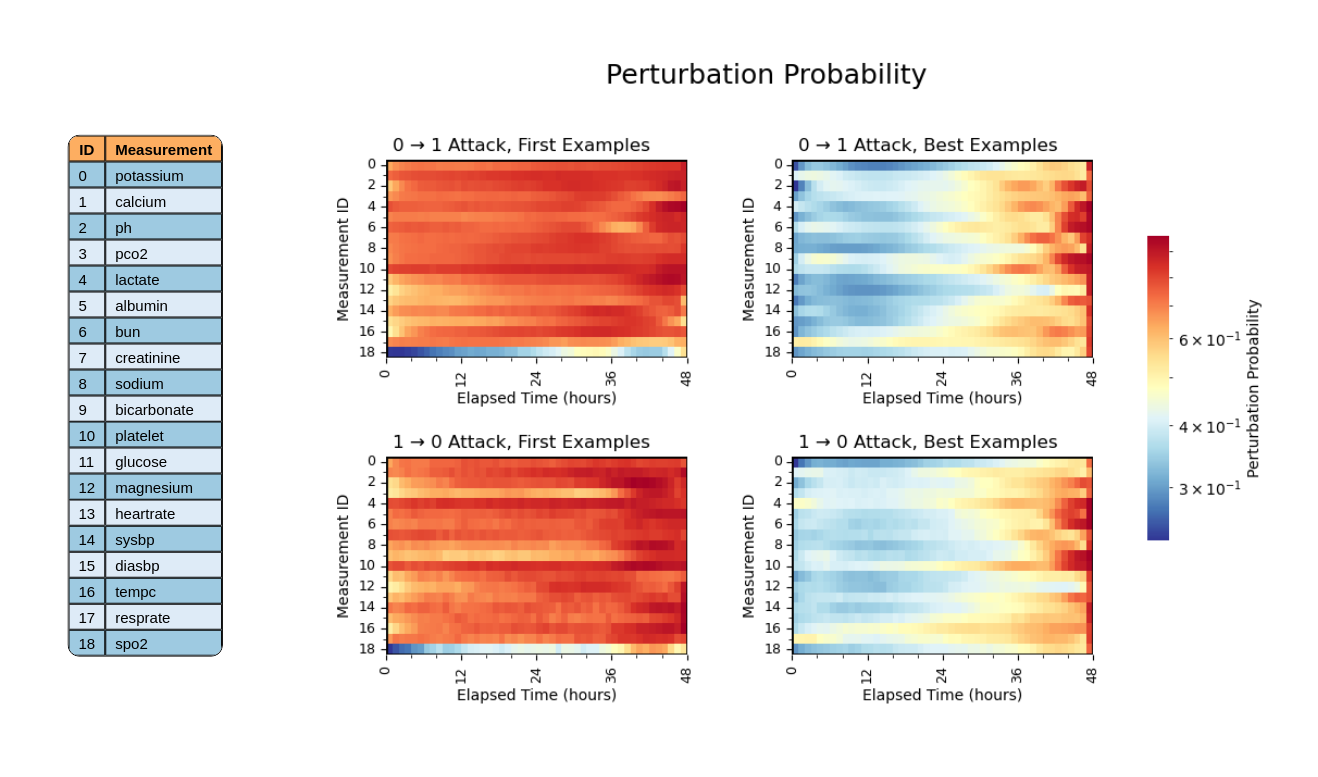
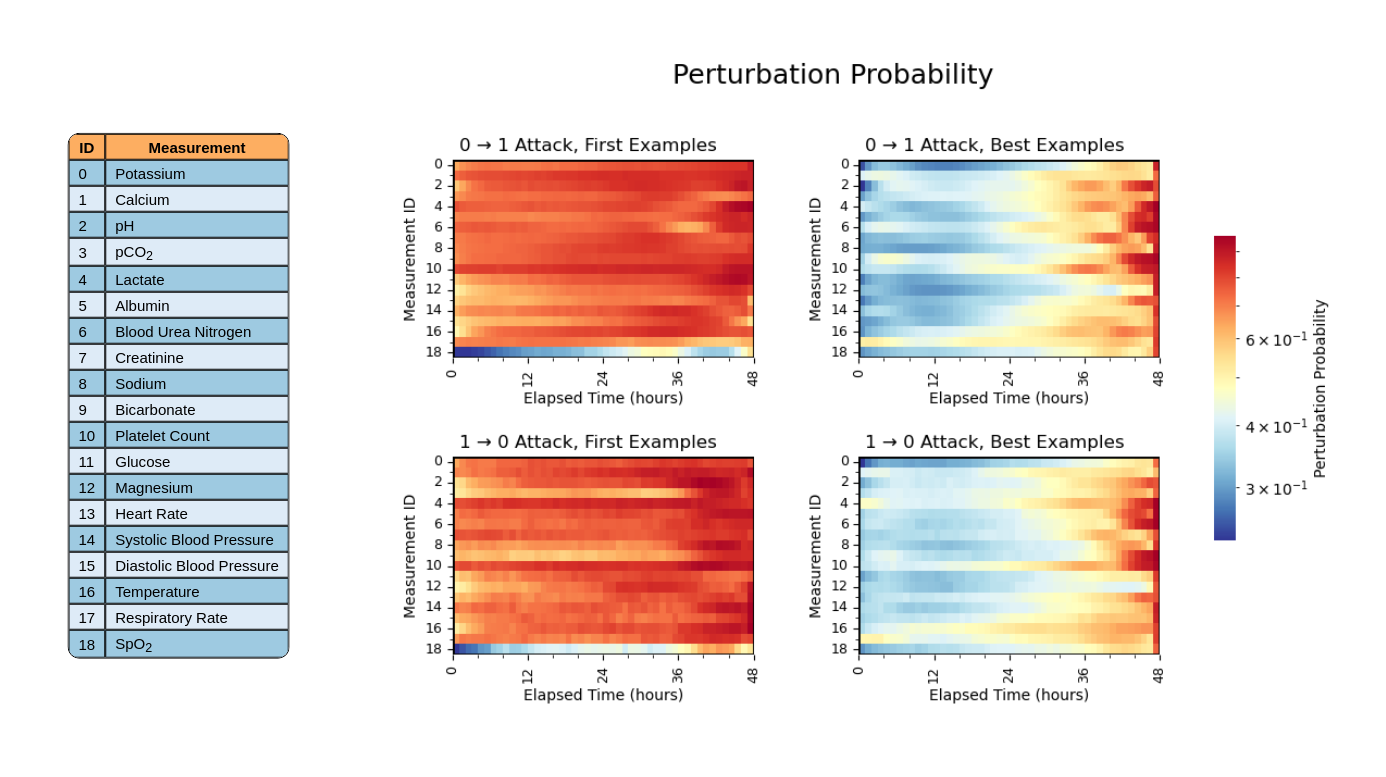
update example data discussion

diff --git a/data/.attack_analyses_old/2023-08-04_23_25_10.936888/styled_measurement_table.html b/data/.attack_analyses_old/2023-08-04_23_25_10.936888/styled_measurement_table.html
@@ -73,25 +73,25 @@
             <th>ID</th>
             <th>Measurement</th>
         </tr>
-        <tr><td>0</td><td>potassium</td></tr>
-        <tr><td>1</td><td>calcium</td></tr>
-        <tr><td>2</td><td>ph</td></tr>
-        <tr><td>3</td><td>pco2</td></tr>
-        <tr><td>4</td><td>lactate</td></tr>
-        <tr><td>5</td><td>albumin</td></tr>
-        <tr><td>6</td><td>bun</td></tr>
-        <tr><td>7</td><td>creatinine</td></tr>
-        <tr><td>8</td><td>sodium</td></tr>
-        <tr><td>9</td><td>bicarbonate</td></tr>
-        <tr><td>10</td><td>platelet</td></tr>
-        <tr><td>11</td><td>glucose</td></tr>
-        <tr><td>12</td><td>magnesium</td></tr>
-        <tr><td>13</td><td>heartrate</td></tr>
-        <tr><td>14</td><td>sysbp</td></tr>
-        <tr><td>15</td><td>diasbp</td></tr>
-        <tr><td>16</td><td>tempc</td></tr>
-        <tr><td>17</td><td>resprate</td></tr>
-        <tr><td>18</td><td>spo2</td></tr>
+        <tr><td>0</td><td>Potassium</td></tr>
+        <tr><td>1</td><td>Calcium</td></tr>
+        <tr><td>2</td><td>pH</td></tr>
+        <tr><td>3</td><td>pCO<sub>2</sub></td></tr>
+        <tr><td>4</td><td>Lactate</td></tr>
+        <tr><td>5</td><td>Albumin</td></tr>
+        <tr><td>6</td><td>Blood Urea Nitrogen</td></tr>
+        <tr><td>7</td><td>Creatinine</td></tr>
+        <tr><td>8</td><td>Sodium</td></tr>
+        <tr><td>9</td><td>Bicarbonate</td></tr>
+        <tr><td>10</td><td>Platelet Count</td></tr>
+        <tr><td>11</td><td>Glucose</td></tr>
+        <tr><td>12</td><td>Magnesium</td></tr>
+        <tr><td>13</td><td>Heart Rate</td></tr>
+        <tr><td>14</td><td>Systolic Blood Pressure</td></tr>
+        <tr><td>15</td><td>Diastolic Blood Pressure</td></tr>
+        <tr><td>16</td><td>Temperature</td></tr>
+        <tr><td>17</td><td>Respiratory Rate</td></tr>
+        <tr><td>18</td><td>SpO<sub>2</sub></td></tr>
     </table>
 
     <!-- Image on the right -->

diff --git a/README.md b/README.md
@@ -4,27 +4,27 @@
 
 This project implements and optimizes **Long Short-Term Memory (LSTM)** time series models of intensive care unit (ICU) patient lab and vital sign data to predict patient outcomes. Additionally, an **adversarial attack** algorithm is used to discover adversarial examples for trained models.  
 
-Raw data were obtained from the **Medical Information Mart for Intensive Care (MIMIC-III) database** [[1](#ref_01), [2](#ref_02)]. The predictive model input consists of data from 13 lab measurements and 6 vital signs*collected during the first 48 hours after patient admission to the ICU. The prediction target is a binary variable representing in-hospital mortality. This type of model can supplement standard heuristics used by care providers in identifying high-risk patients.  
+Raw data were obtained from the **Medical Information Mart for Intensive Care (MIMIC-III) database** [[1](#ref_01), [2](#ref_02)]. The predictive model input consists of data from **13 lab measurements** and **6 vital signs** collected during the first **48 hours** after patient admission to the ICU. The prediction target is a binary variable representing in-hospital mortality. This type of model can supplement standard heuristics used by care providers in identifying high-risk patients.  
 
 The results of adversarial attacks on trained LSTM models provide a gauge of model stability. Additionally, these results offer an opportunity to compare adversarial vulnerabilities in LSTMs with the well-documented [[3](#ref_03), [4](#ref_04)] adversarial behaviors observed in Convolutional Neural Networks (CNNs) used for computer vision. Unlike the adversarial examples found in CNNs — where perturbations imperceptible to the human eye can drastically alter model predictions — the adversarial examples discovered for our LSTM models exhibit a higher degree of plausibility, aligning more closely with human intuition.  
 
-## **Getting Started**  
+## Getting Started  
 
-### **📌 Viewing Documentation**  
+### 📌 Viewing Documentation  
 The full documentation, including detailed descriptions of the methodology and implementation, is contained in the project Jupyter notebook. If using the notebook purely for informational purposes (without running the code), you can:
 - View the [notebook file directly on GitHUb](https://github.com/duanegoodner/icu-deep-learning/blob/main/notebooks/icu_deep_learning.ipynb) directly on GitHUb
 -  Open it in Google Colab for a more interactive reading experience with easier navigation:  
 [![Open in Colab](https://colab.research.google.com/assets/colab-badge.svg)](https://colab.research.google.com/github/duanegoodner/lstm_adversarial_attack/blob/main/notebooks/icu_deep_learning.ipynb)  
 
 
-### **🚀 Running the Project**  
-- To run the project code, follow the instructions in [SETUP.md](SETUP.md) for setting up and running in a containerized environment.  
+### 🚀 Running the Project  
+To run the project code, follow the instructions in [SETUP.md](SETUP.md) for setting up and running in a containerized environment.  
 
-## **Acknowledgement of Prior Studies**  
+## Acknowledgement of Prior Studies  
 
 This project builds on previous studies [[5](#ref_05), [6](#ref_06)] that were the first to apply LSTM-based predictive modeling and adversarial attacks to ICU patient data from the MIMIC-III database. While the initial goal was to reproduce and validate portions of the earlier studies, the project has since evolved into significant extensions and new contributions. However, none of this progress would have been possible without the invaluable foundation provided by the original research.  
 
-## **Highlights**  
+## Highlights  
 
 - **Extensive hyperparameter tuning** for predictive and attack models.  
 - **Flexible attack objectives** allow targeting different types of adversarial perturbations.  
@@ -40,14 +40,23 @@ This project builds on previous studies [[5](#ref_05), [6](#ref_06)] that were t
 
 ## Example Data: Input Elements' Perturbation Probability 
 
-When 
+Each model input consists of a **19 × 48** array representing **hourly** values of **13 lab measurements** and **6 vital signs** collected over a **48-hour** period. To analyze the adversarial behavior of a trained model under a specific attack objective function, we perform multiple attack iterations on each sample in a population. The attack objective function can favor small perturbation magnitude, sparse perturbations, or both.
 
-By running adversarial attacks with a large number of samples for a single trained model, we can generate a variety of data illustrating model's adversarial behavior.
+For each sample, an adversarial example may be found after some number of attack iterations — or in some cases, not at all. Once the **first** adversarial example is discovered for a sample, we continue attacking the sample (up to a predefined iteration limit) to identify perturbations that further minimize the attack objective function and record the example with the lowest value of the attack objective function as that sample's **best** adversarial example.  The perturbation associated with a **best example** has lower magnitude and/or greater sparsity than its corresponding **first example**.
 
-The model input features for a single patient consist of a 19 x 48 array representing hourly values of the 19 lab and vital sign measurements collected over a 48 hour timespan.
+A **"zero-to-one" attack** refers to an adversarial perturbation that **flips a model's predicted output from `0` (non-mortality) to `1` (mortality)**. Similarly, a **"one-to-zero" attack** flips the predicted output from `1` to `0`.
+
+The "Perturbation Probability" figure below shows the fraction of adversarial examples in which each input array element is non-zero for the **first** and **best** discovered examples, with separate plots for **zero-to-one** and **one-to-zero** attacks.
 
 ![Perturbation Probability](docs/perturbation_probability_data.png)
 
+Some key takeaways from the above data:
+- For the **first examples**, most measurements' perturbation probability is fairly evenly distributed across the 48-hour observation period, though does increase for later times.
+- SpO<sub>2</sub> perturbations are less common in first examples compared to other measurements. However, this difference disappears in best examples.
+- The best examples strongly favor perturbations at the end of the observation period. These adversarial examples are not what we would call "anomalous." A human interpreter would also be more likely to misinterpret a late-time perturbation.
+- Fine details in the probability distributions are well-matched between **zero-to-one** and **one-to-zero** **best examples**, suggesting that the model’s vulnerabilities are generally independent of the attack direction.
+
+For additional exploration and analysis, refer to the [Getting Started](#getting-started) section.
 
 
 ## **Tools Used**  
